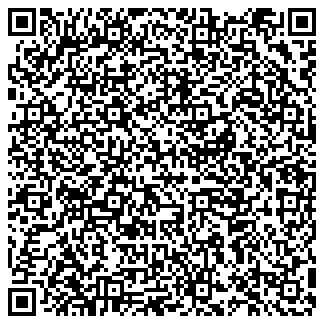
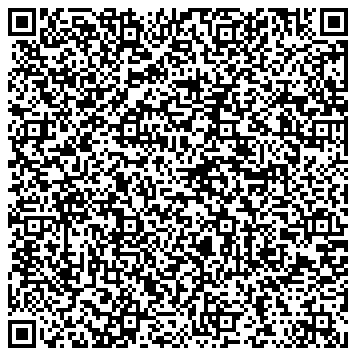
feat(booking): update code main

diff --git a/qrcode.html b/qrcode.html
@@ -1,20 +1,20 @@
 
-        <!DOCTYPE html>
-        <html>
-        <head><title>QR Code</title></head>
-        <body>
-            <h1>Ticket QR Code</h1>
[1 lines of base64/hex data omitted]
-            <pre>
-        Ticket ID: 1001
+    <!DOCTYPE html>
+    <html>
+      <head><title>QR Code</title></head>
+      <body>
+        <h1>Ticket QR Code</h1>
[1 lines of base64/hex data omitted]
+        <pre>
+        Ticket ID: 101
         Customer ID: 1
-        Seat ID: 25
-        Movie Name: Avengers: Endgame
+        Seat ID: 12
+        Movie Name: Movie: Action Movie | Genre: Action | Duration: 120 mins
         Hall Name: Hall A
-        Duration: 181 minutes
-        Booking Date: Tue Jun 10 2025 18:00:00 GMT+0700 (Indochina Time)
-        Ticket Price: $12.50
+        Duration: 120 minutes
+        Booking Date: Tue Jun 03 2025 14:00:00 GMT+0700 (Indochina Time)
+        Ticket Price: $15.00
         </pre>
-        </body>
-        </html>
-    
+      </body>
+    </html>
+  

diff --git a/src/main.ts b/src/main.ts
@@ -1,5 +1,4 @@
 import { writeFile } from "fs/promises";
-import QRCode from "qrcode";
 import { Movie } from "./Movie/Movie";
 import { Customer } from "./Users/Customer";
 import { Staff } from "./Users/Staff";
@@ -105,7 +104,7 @@ const customerTicket = new CustomerTicket(
   12,
   movie1.getDetails().split("\n")[0], // Just grabbing movie name from getDetails() for example
   hallA.getHallName(),
-  movie1.duration,
+  movie1.getDuration(),
   new Date("2025-06-03T14:00:00"),
   15.0
 );
